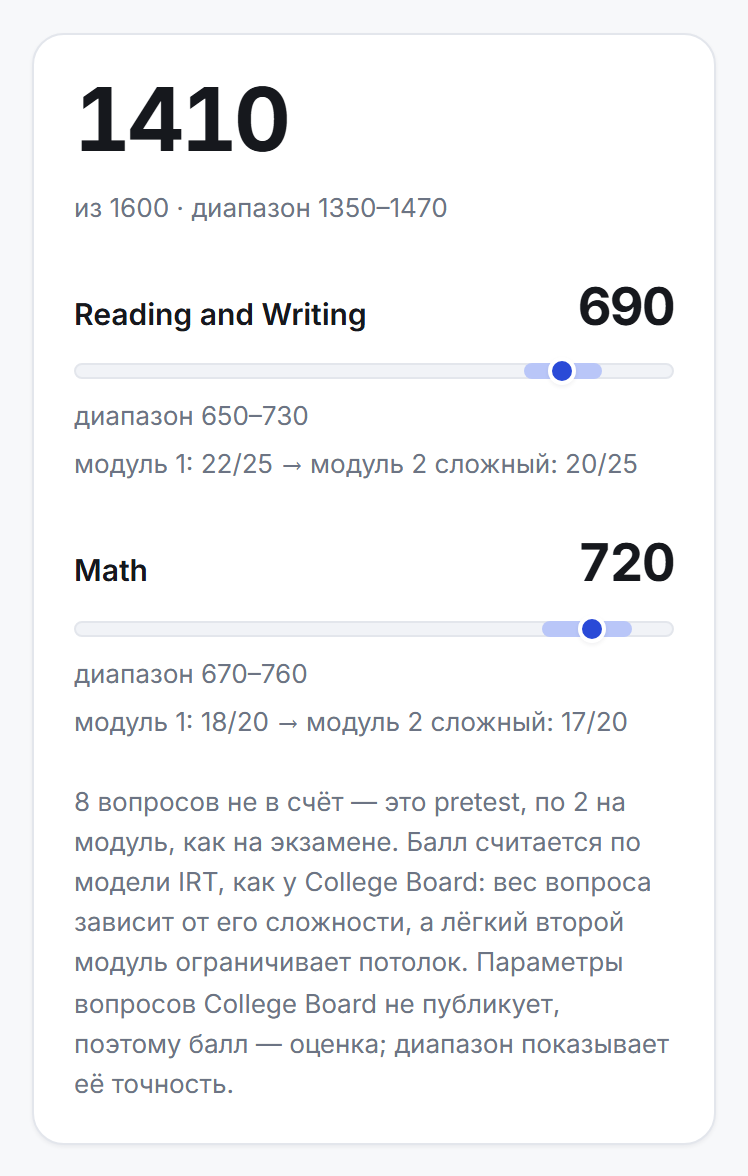
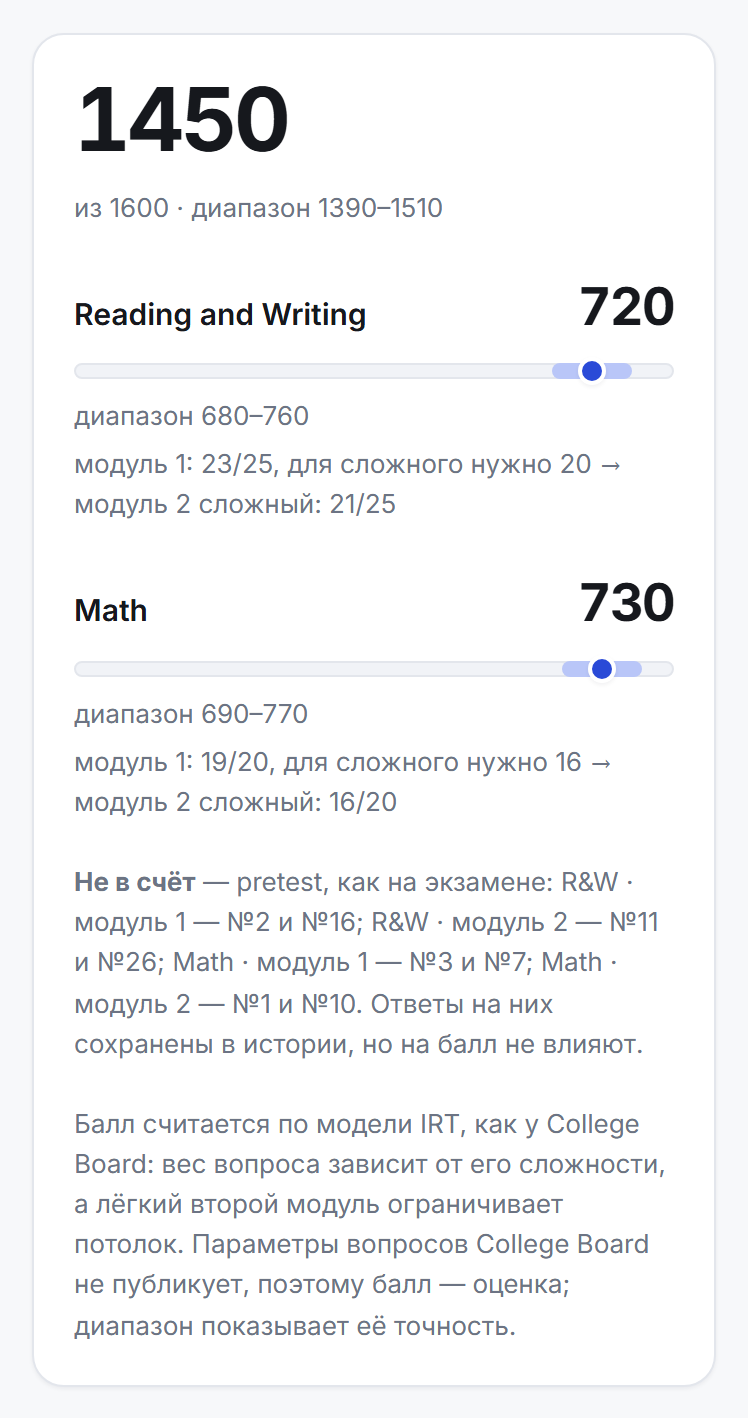
Порог сложного модуля 2 — 80% верных в модуле 1
Маршрут теперь решает простой счёт засчитанных ответов: 20 из 25 в R&W,
16 из 20 в Math. На экране результата видно, сколько было нужно, и номера
pretest-вопросов, которые не пошли в балл.

diff --git a/src/screens/Results.tsx b/src/screens/Results.tsx
@@ -1,5 +1,6 @@
 import { useMemo } from "react";
 import type { Attempt, PracticeScore, RunPlan, SectionScore } from "../types";
+import { routeThreshold } from "../lib/scoring";
 
 function pct(n: number, d: number) {
   return d === 0 ? "—" : `${Math.round((n / d) * 100)}%`;
@@ -22,15 +23,6 @@ interface Props {
 
 const ROUTE_LABEL = { hard: "сложный", easy: "лёгкий" } as const;
 
-/** 1 вопрос, 4 вопроса, 8 вопросов. */
-function questionsWord(n: number): string {
-  const d = n % 10;
-  const dd = n % 100;
-  if (d === 1 && dd !== 11) return "вопрос";
-  if (d >= 2 && d <= 4 && (dd < 12 || dd > 14)) return "вопроса";
-  return "вопросов";
-}
-
 /** Where a 200–800 score and its band sit on the scale, in percent. */
 const at = (v: number) => `${((v - 200) / 600) * 100}%`;
 
@@ -50,8 +42,8 @@ function SectionRow({ s }: { s: SectionScore }) {
           диапазон {s.low}–{s.high}
         </span>
         <span>
-          модуль 1: {s.first.right}/{s.first.of} → модуль 2 {ROUTE_LABEL[s.route]}: {s.second.right}/
-          {s.second.of}
+          модуль 1: {s.first.right}/{s.first.of}, для сложного нужно {routeThreshold(s.first.of)} →
+          модуль 2 {ROUTE_LABEL[s.route]}: {s.second.right}/{s.second.of}
         </span>
       </div>
     </div>
@@ -86,7 +78,20 @@ export default function Results({ plan, attempts, score, onHome, onReview }: Pro
     return [...m.entries()].sort((x, y) => x[0] - y[0]);
   }, [attempts]);
 
-  const pretest = attempts.filter((a) => a.pretest);
+  /** Which question numbers did not count, module by module. */
+  const pretest = useMemo(
+    () =>
+      plan.modules
+        .filter((m) => m.pretest?.length && m.questions.length)
+        .map((m) => ({
+          label: m.label,
+          nums: m
+            .pretest!.map((id) => m.questions.findIndex((q) => q.id === id) + 1)
+            .filter((n) => n > 0)
+            .sort((a, b) => a - b),
+        })),
+    [plan]
+  );
 
   return (
     <div className="wrap" style={{ maxWidth: 780 }}>
@@ -108,9 +113,14 @@ export default function Results({ plan, attempts, score, onHome, onReview }: Pro
           {score.sections.map((s) => (
             <SectionRow key={s.section} s={s} />
           ))}
+          {pretest.length > 0 && (
+            <p className="small muted" style={{ margin: 0 }}>
+              <strong>Не в счёт</strong> — pretest, как на экзамене:{" "}
+              {pretest.map((m) => `${m.label} — №${m.nums.join(" и №")}`).join("; ")}. Ответы на
+              них сохранены в истории, но на балл не влияют.
+            </p>
+          )}
           <p className="small muted" style={{ margin: 0 }}>
-            {pretest.length > 0 &&
-              `${pretest.length} ${questionsWord(pretest.length)} не в счёт — это pretest, по 2 на модуль, как на экзамене. `}
             Балл считается по модели IRT, как у College Board: вес вопроса зависит от его
             сложности, а лёгкий второй модуль ограничивает потолок. Параметры вопросов
             College Board не публикует, поэтому балл — оценка; диапазон показывает её точность.

diff --git a/src/lib/scoring.ts b/src/lib/scoring.ts
@@ -22,7 +22,7 @@ const D = 1.7;
  * Location of each difficulty label on the ability scale, and one slope for
  * all. Fitted by simulation to the hard-route curves of Bluebook practice tests
  * (roughly: 5 misses ≈ 740, 10 ≈ 670 in Reading and Writing; 4 ≈ 750, 10 ≈ 650
- * in Math), within about 20 points; the easy route then tops out near 600.
+ * in Math), within about 20 points.
  */
 export const ITEM_B: Record<string, number> = { Easy: -1.0, Medium: 0.2, Hard: 2.0 };
 const ITEM_A = 0.65;
@@ -83,15 +83,21 @@ export function estimate(responses: Response[]): Estimate {
 export type Route = "easy" | "hard";
 
 /**
- * Ability the first module has to show for the harder second module: a little
- * above the average test taker. College Board keeps the real cut secret; this
- * one lands at about 60% of the scored questions on a standard first module,
- * which is where Bluebook practice tests seem to put it.
+ * Share of the first module's scored questions needed for the harder second
+ * module. College Board keeps the real cut secret, so this one is a plain count
+ * that can be known in advance: 20 of 25 in Reading and Writing, 16 of 20 in Math.
  */
-export const ROUTE_CUT = 0.1;
+export const ROUTE_SHARE = 0.8;
+
+/** Right answers the first module needs out of `scored` for the hard route. */
+export function routeThreshold(scored: number): number {
+  // The epsilon keeps 0.8 × 25 from landing a hair above 20.
+  return Math.ceil(ROUTE_SHARE * scored - 1e-9);
+}
 
 export function routeFor(firstModule: Response[]): Route {
-  return estimate(firstModule).theta >= ROUTE_CUT ? "hard" : "easy";
+  const right = firstModule.filter((r) => r.correct).length;
+  return right >= routeThreshold(firstModule.length) ? "hard" : "easy";
 }
 
 /** The questions of one section as drawn: both versions of the second module. */

diff --git a/src/lib/practice.test.ts b/src/lib/practice.test.ts
@@ -216,9 +216,31 @@ check(
 const capped = answerAll(plan, (q, _i, mi) => (mi % 2 === 0 ? q.difficulty === "Easy" : true));
 const cs = scorePractice(capped.plan, capped.attempts);
 check(
-  "слабый модуль 1 → лёгкий модуль 2, потолок около 600",
+  "слабый модуль 1 → лёгкий модуль 2, балл 450–650",
   cs.sections.every((s) => s.route === "easy" && s.score >= 450 && s.score <= 650),
   JSON.stringify(cs.sections.map((s) => [s.score, s.route]))
+);
+
+// The cut is a plain count of scored first-module answers: 20/25 and 16/20.
+const scoredOf = (mod: ModulePlan) => mod.questions.filter((q) => !mod.pretest!.includes(q.id));
+const firstN = (mi: number, n: number) => {
+  const ids = new Set(scoredOf(plan.modules[mi]).slice(0, n).map((q) => q.id));
+  return (q: Question) => ids.has(q.id);
+};
+const cut = (rw: number, math: number) =>
+  answerAll(plan, (q, _i, mi) => (mi === 0 ? firstN(0, rw)(q) : mi === 2 ? firstN(2, math)(q) : true));
+const atCut = scorePractice(cut(20, 16).plan, cut(20, 16).attempts).sections.map((s) => s.route);
+const belowCut = scorePractice(cut(19, 15).plan, cut(19, 15).attempts).sections.map((s) => s.route);
+check(
+  "порог 80%: 20/25 и 16/20 → сложный, 19/25 и 15/20 → лёгкий",
+  atCut.join() === "hard,hard" && belowCut.join() === "easy,easy",
+  `${atCut.join()} / ${belowCut.join()}`
+);
+const nearCap = scorePractice(cut(19, 15).plan, cut(19, 15).attempts).sections.map((s) => s.score);
+check(
+  "чуть ниже порога и всё верно в лёгком модуле 2 — потолок около 680",
+  nearCap.every((v) => v >= 640 && v <= 720),
+  nearCap.join(", ")
 );
 
 // One miss on the hard route costs little, as on the real test.

diff --git a/src/components/PracticeCard.tsx b/src/components/PracticeCard.tsx
@@ -10,6 +10,7 @@ import {
   practiceQuestions,
   type PracticeScope,
 } from "../lib/practice";
+import { ROUTE_SHARE } from "../lib/scoring";
 
 function duration(min: number): string {
   const h = Math.floor(min / 60);
@@ -67,8 +68,8 @@ export default function PracticeCard({
         </div>
         <p className="small muted" style={{ margin: 0 }}>
           Модуль 1 — смесь: {pctOf(m1.Easy)} Easy, {pctOf(m1.Medium)} Medium, {pctOf(m1.Hard)}{" "}
-          Hard. По его итогам модуль 2 лёгкий или сложный, как в Bluebook. В конце — балл 200–800
-          за секцию и 400–1600 за весь тест.
+          Hard. {pctOf(ROUTE_SHARE)} верных и больше — модуль 2 сложный, иначе лёгкий. В конце —
+          балл 200–800 за секцию и 400–1600 за весь тест.
         </p>
 
         <div className="wrap-chips">
